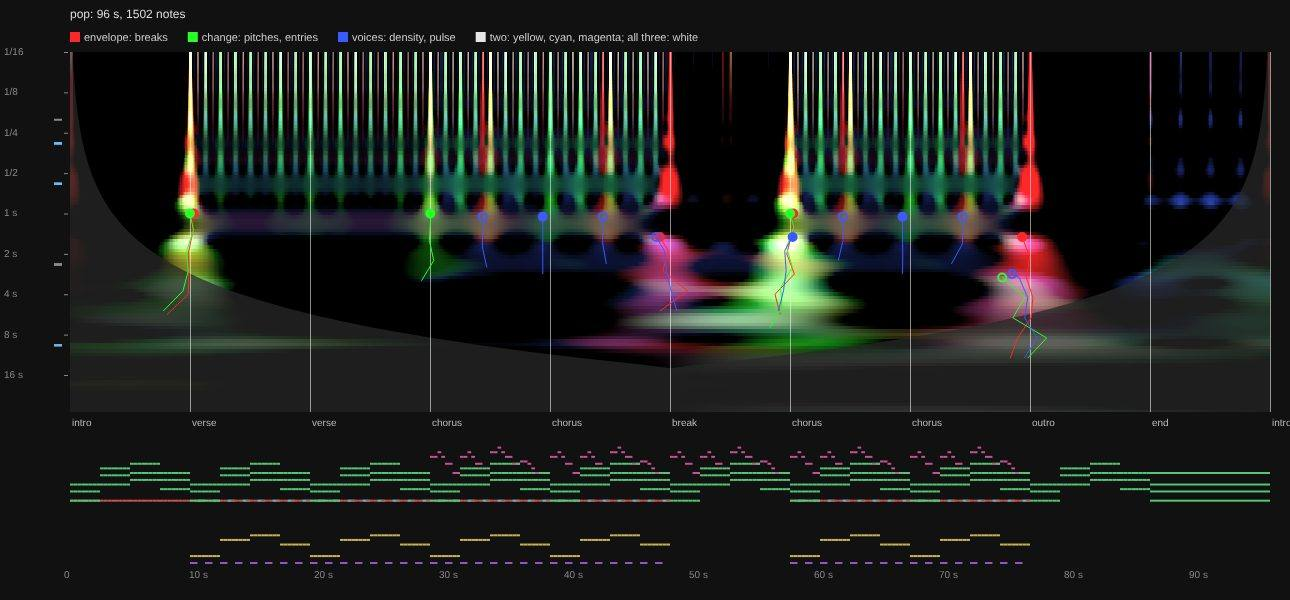
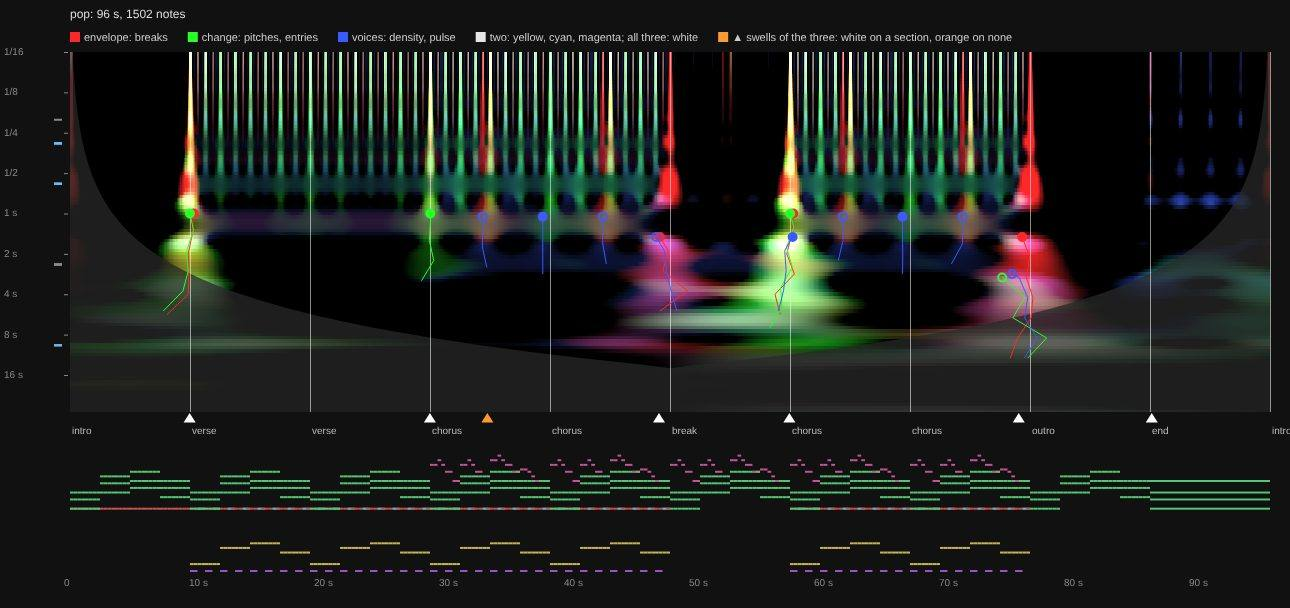
Scalogram probe: novelty and swells beside the cones; the boundaries nobody wrote (#286)
Two more finders, scored like the cones: Foote's novelty (a lasting
change of texture) and swells (the periods near the boundaries' gap
loud for a moment), each per signal and for the three together.
Swells find the most: about 60 % of the sections at 56-72 % precision
(chance 19 %), and 5 to 12's blocks (82 %). Of the best swells, 28 of
144 land on no section; a cell's turn doesn't explain them. The
combined chart marks the swells, white on a section, orange on none.

Claude-Session: https://claude.ai/code/session_01QxAyZBrxNwWurudBveYUYf

diff --git a/tools/probe/scalogram.test.ts b/tools/probe/scalogram.test.ts
@@ -17,7 +17,7 @@ import { KEY, SECONDS_PER_STEP } from '../../src/engine/fiveto12';
 import { eventsBetween, plan } from '../../src/engine/realize';
 import { PRESETS } from '../../src/engine/presets';
 import { towerSpans } from '../../src/layout/tower';
-import { MOST_RATE, PER_OCTAVE, SIGNALS, W0, around, cones, grid, reach, score, signals, type Cone } from './scalogram';
+import { MOST_RATE, PER_OCTAVE, SIGNALS, W0, around, cones, grid, novelty, reach, score, signals, swells, type Cone } from './scalogram';
 
 const log = (t: string) => appendFileSync(process.env.PROBE!, t + '\n');
 /** A piece shorter than this (s) is left out: a third of it is a bar or two. */
@@ -59,6 +59,14 @@ describe.runIf(process.env.PROBE)('the rhythm scalogram', () => {
     const short: string[] = [];
     // (the cones against the boundaries: a row a piece and a set of boundaries)
     const scored: { key: string; set: string; n: number; tolerance: number; chance: number; by: Record<string, { precision: number; recall: number }> }[] = [];
+    // (the same boundaries against the novelty and the swells: each signal alone, and the three of the combined chart)
+    const NOVEL = [...SIGNALS, 'three'] as const;
+    const novel: { key: string; set: string; by: Record<string, { precision: number; recall: number }> }[] = [];
+    const swelled: typeof novel = [];
+    // (the boundaries nobody wrote: strong swells of the three signals together that land on no section, and whether a
+    // cell's turn explains them, a phrase inside a section)
+    const unwritten: string[] = [];
+    const tallyUnwritten = { strong: 0, off: 0, turn: 0, chance: 0, pieces: 0 };
     for (const [key, p] of Object.entries(PRESETS)) {
       if (only && !only.includes(key)) continue;
       if (tag && !new RegExp(`tags="[^"]*\\b${tag}\\b`).test(p.source)) continue;
@@ -157,6 +165,41 @@ describe.runIf(process.env.PROBE)('the rhythm scalogram', () => {
               .map((c, i) => ({ at: +c.at.toFixed(2), path: c.path.map(([t, q]) => [+t.toFixed(2), +q.toPrecision(4)]), rank: i, hit: r.hits.has(c) }));
         }
         scored.push({ key, set, n: boundaries.length, tolerance, chance, by });
+        const nby: Record<string, { precision: number; recall: number }> = {};
+        const sby: Record<string, { precision: number; recall: number }> = {};
+        for (const s of NOVEL) {
+          const rows = s === 'three' ? [sig.envelope, sig.change, sig.voices] : [sig[s]];
+          nby[s] = score(novelty(rows, g.periods, window, gap), boundaries, window, tolerance);
+          sby[s] = score(swells(rows, g.periods, window, gap), boundaries, window, tolerance);
+        }
+        novel.push({ key, set, by: nby });
+        swelled.push({ key, set, by: sby });
+        if (set === 'sections') {
+          const peaks = swells([sig.envelope, sig.change, sig.voices], g.periods, window, gap);
+          // (the best twice as many as there are boundaries: room for as many again that nobody wrote)
+          const strong = peaks.slice(0, 2 * boundaries.length);
+          const off = strong.filter((x) => !boundaries.some((b) => Math.abs(b - x.at) <= tolerance));
+          // (for the combined chart: each of them, by rank, on a section or not)
+          out.swells = strong.map((x, rank) => ({ at: +x.at.toFixed(2), rank, hit: !off.includes(x) }));
+          // (a cell's turn from a quarter of the gap up to it, and over twice the tolerance: a phrase, not the bar, which
+          // would explain any moment; at a multiple of it, explained)
+          const turns = cells.filter((c) => c.turn > Math.max(2 * tolerance, gap / 4) && c.turn < gap).map((c) => ({ name: c.name, turn: c.turn }));
+          const why = (t: number) => turns.find((c) => Math.abs(t - Math.round(t / c.turn) * c.turn) <= tolerance)?.name;
+          let covered = 0;
+          for (let k = 0; k < 1000; k++) if (why(((k + 0.5) / 1000) * window)) covered++;
+          tallyUnwritten.strong += strong.length;
+          tallyUnwritten.off += off.length;
+          tallyUnwritten.turn += off.filter((x) => why(x.at)).length;
+          tallyUnwritten.chance += (covered / 1000) * off.length;
+          tallyUnwritten.pieces++;
+          if (off.length)
+            unwritten.push(
+              `${key.padEnd(14)} ${off.length}/${strong.length} of the best swells on no section (a cell's turn covers ${pct(covered / 1000)} % of the time): ${off
+                .sort((a, b) => a.at - b.at)
+                .map((x) => `${x.at < 120 ? x.at.toFixed(1) + ' s' : (x.at / 60).toFixed(1) + ' min'}${why(x.at) ? ` (&${why(x.at)})` : ''}`)
+                .join(', ')}`,
+            );
+        }
       }
       const spans = [...new Set(cells.flatMap((c) => [c.step, c.turn]).map((x) => (x < 1 ? x.toFixed(2) : x.toFixed(1))))].sort((a, b) => +a - +b);
       const how = time.ends !== null ? 'ends' : window === time.cycle ? 'cycle' : 'longest layer';
@@ -185,5 +228,25 @@ describe.runIf(process.env.PROBE)('the rhythm scalogram', () => {
         `${'mean'.padEnd(14)} ${''.padEnd(8)} ${''.padStart(3)} ${''.padStart(5)} ${pct(mean((x) => x.chance)).padStart(8)} | ${SIGNALS.map((s) => `${''.padEnd(5)}${pct(mean((x) => x.by[s].precision))} ${pct(mean((x) => x.by[s].recall))}`).join(' | ')}`,
       );
     }
+    for (const [title, rows] of [
+      ["the novelty (a change in which periods are loud, at the scale of the boundaries' median gap)", novel],
+      ['the swells (loud for a while at periods from an eighth to half the median gap)', swelled],
+    ] as const) {
+      log(`\nthe same boundaries against ${title}: as many best peaks as boundaries; P and R as above\n`);
+      log(`piece          set      | ${NOVEL.map((s) => `${s.padEnd(8)} P   R`).join(' | ')}`);
+      for (const x of rows) log(`${x.key.padEnd(14)} ${x.set.padEnd(8)} | ${NOVEL.map((s) => `${''.padEnd(5)}${pct(x.by[s].precision)} ${pct(x.by[s].recall)}`).join(' | ')}`);
+      const whole = rows.filter((x) => x.set === 'sections' || x.set === 'keys');
+      if (!whole.length) continue;
+      const mean = (f: (x: (typeof rows)[number]) => number) => whole.reduce((a, x) => a + f(x), 0) / whole.length;
+      log(`${'mean'.padEnd(14)} ${''.padEnd(8)} | ${NOVEL.map((s) => `${''.padEnd(5)}${pct(mean((x) => x.by[s].precision))} ${pct(mean((x) => x.by[s].recall))}`).join(' | ')}`);
+    }
+    log('\nthe boundaries nobody wrote: the best swells of the three signals together (twice as many as boundaries) that');
+    log('land on no section, each with the cell at a multiple of whose turn (a phrase: a quarter of the gap or more) it falls\n');
+    for (const l of unwritten) log(l);
+    const u = tallyUnwritten;
+    if (u.pieces)
+      log(
+        `\nover ${u.pieces} pieces: ${u.off} of ${u.strong} of the best swells land on no section; ${u.turn} of those on a multiple of a cell's turn (at random: ${u.chance.toFixed(1)})`,
+      );
   }, 900_000);
 });

diff --git a/tools/probe/scalogram.ts b/tools/probe/scalogram.ts
@@ -279,3 +279,81 @@ export function score(found: readonly Cone[], boundaries: readonly number[], win
     hits: new Set(best.filter((c) => near(c.at))),
   };
 }
+
+/**
+ * Where the music changes at the scale of `span` seconds (Foote 2000's novelty, on the scalogram): at each moment, the
+ * distance between the mean spectrum over `span`/2 before it and over `span`/2 after (each period in dB against its
+ * mean, the periods up to `span`/2, every signal given one after the other), and its peaks, best first, one within
+ * `span`/4 of another kept. Unlike a cone, it doesn't need the change to reach down to the beat: a key that changes
+ * under the same rhythm, a block of two hours whose mode changes, are a change in which periods are loud.
+ */
+export function novelty(signals: readonly (readonly Float32Array[])[], periods: readonly number[], window: number, span: number): Cone[] {
+  const cols = signals[0]?.[0]?.length ?? 0;
+  const half = Math.max(1, Math.round((span / 2 / window) * cols));
+  // (the features: every row up to span/2, in dB against its mean, summed along time for a mean over any stretch)
+  const sums: Float64Array[] = [];
+  for (const rows of signals) {
+    const r = byRow(rows, periods, window);
+    r.forEach((row, i) => {
+      if (periods[i] > span / 2) return;
+      const s = new Float64Array(cols + 1);
+      for (let c = 0; c < cols; c++) s[c + 1] = s[c] + 10 * Math.log10(Math.max(1e-6, row[c]));
+      sums.push(s);
+    });
+  }
+  const curve = new Float64Array(cols);
+  for (let c = half; c <= cols - half; c++) {
+    let acc = 0;
+    for (const s of sums) {
+      const before = (s[c] - s[c - half]) / half;
+      const after = (s[c + half] - s[c]) / half;
+      acc += (after - before) ** 2;
+    }
+    curve[c] = Math.sqrt(acc / Math.max(1, sums.length));
+  }
+  const near = Math.max(1, Math.round(half / 2));
+  const found: Cone[] = [];
+  for (let c = half; c <= cols - half; c++) {
+    let top = curve[c] > 0;
+    for (let k = Math.max(0, c - near); k <= Math.min(cols - 1, c + near) && top; k++) if (curve[k] > curve[c] || (curve[k] === curve[c] && k < c)) top = false;
+    if (top) {
+      const at = ((c + 0.5) / cols) * window;
+      found.push({ at, top: span, bottom: span, score: curve[c], path: [[at, span]] });
+    }
+  }
+  return found.sort((a, b) => b.score - a.score);
+}
+
+/**
+ * Swells at the scale of `span` seconds: each signal in dB against its period's mean, averaged over the periods from
+ * `span`/8 to `span`/2 (every signal given counted alike), and the peaks of that curve in time, best first, one within
+ * `span`/4 of another kept. A boundary that doesn't reach down to the beat (a cone cut short) still swells there: 5 to
+ * 12's keys, folded over ten minutes, are loudest at the change in the 2-minute row.
+ */
+export function swells(signals: readonly (readonly Float32Array[])[], periods: readonly number[], window: number, span: number): Cone[] {
+  const cols = signals[0]?.[0]?.length ?? 0;
+  const curve = new Float64Array(cols);
+  let n = 0;
+  for (const rows of signals) {
+    const r = byRow(rows, periods, window);
+    r.forEach((row, i) => {
+      if (periods[i] < span / 8 || periods[i] > span / 2) return;
+      n++;
+      for (let c = 0; c < cols; c++) curve[c] += 10 * Math.log10(Math.max(1e-6, row[c]));
+    });
+  }
+  if (!n) return [];
+  const near = Math.max(1, Math.round((span / 4 / window) * cols));
+  const found: Cone[] = [];
+  for (let c = 0; c < cols; c++) {
+    // (clear of the window's edges at the slowest of those periods)
+    if (c < cols * reach(span / 2, window) || c > cols * (1 - reach(span / 2, window))) continue;
+    let top = true;
+    for (let k = Math.max(0, c - near); k <= Math.min(cols - 1, c + near) && top; k++) if (curve[k] > curve[c] || (curve[k] === curve[c] && k < c)) top = false;
+    if (top) {
+      const at = ((c + 0.5) / cols) * window;
+      found.push({ at, top: span, bottom: span / 8, score: curve[c] / n, path: [[at, span]] });
+    }
+  }
+  return found.sort((a, b) => b.score - a.score);
+}

diff --git a/docs/notes/scalogram.md b/docs/notes/scalogram.md
@@ -121,7 +121,7 @@ The question: is a written boundary heard as a cone, and is a cone a written bou
   - **Chance**: the share of the window that close to a boundary, which is what P would be with cones dropped at random.
 - The thresholds were swept on the arrangements (`CONE_LOUD`, `CONE_OCTAVES`). Strict (1.5 × the mean, 2 octaves) gives P 56–73 % and R 12–20 %; loose (1 ×, 1 octave, kept) gives P 50–67 % and R 34–51 %.
 
-**Measured** (the 10 pieces with sections, 16 s or more; %):
+**Measured** (the 11 pieces with sections, 16 s or more; %):
 
 | piece | boundaries | n | chance | impulses P / R | envelope P / R | voices P / R | change P / R |
 | --- | --- | --- | --- | --- | --- | --- | --- |
@@ -156,14 +156,46 @@ The question: is a written boundary heard as a cone, and is a cone a written bou
 3. **Each signal hears a kind of boundary.** **envelope** hears the breaks, where notes stop (Hypercell and Pop, every cone on a section). **change** hears the drops and entries, and it is the only one that hears 5 to 12's keys (54 % against 18 %).
 4. **The day's blocks are heard, but not as cones.** At the 2-hour blocks the scalogram has patches at periods of about 17 minutes rather than cones down to the bar. The finder gets 3 or 4 of the 11, all on a block. Folded over two hours (point 3 above), the blocks show as a whole.
 
+## Three finders: cones, novelty, swells
+
+A cone has to reach down to the beat. Two other measures don't (in `tools/probe/scalogram.ts`, scored the same way):
+- **novelty** [Foote 2000]: at each moment, how different the spectrum is just after from just before, over half the boundaries' median gap either side. It finds lasting changes of texture.
+- **swells**: the scalogram averaged over the periods from an eighth to half the gap, and its peaks in time. It finds a moment when those periods are loud: a cone cut short, a break, a fill.
+
+Each is run on one signal, or on the three of the chart together (**three**). Means over the 11 pieces with sections, their sections and 5 to 12's keys (P / R, %; chance 19):
+
+| finder | impulses | envelope | voices | change | three |
+| --- | --- | --- | --- | --- | --- |
+| cones | 64 / 39 | 72 / 37 | 63 / 41 | 75 / 39 | |
+| novelty | 43 / 42 | 33 / 32 | 42 / 39 | 40 / 38 | 37 / 35 |
+| **swells** | 67 / 61 | 56 / 50 | 70 / 64 | 64 / 60 | **72 / 62** |
+
+- **Swells find the most**, about 60 % of the sections at 56–72 % precision, the three together the most precise. The written form is mostly heard as a swell at its own scale, not as a lasting change (novelty).
+- **5 to 12's blocks are found by swells**: 82 % in impulses and voices, against 27 % by cones. Its keys stay hard: 25 % at best (change), against 18 % by chance.
+- **Repeats stay silent**: Pop's and Hypercell's are found by no finder in any signal.
+
+The combined chart marks the swells of the three under the panel: a triangle at each of the best twice as many as there are sections, larger for the best as many, white on a section, orange on none.
+
+![Korobeiniki, combined](scalogram-korobeiniki-combined.jpg)
+![5 to 12, combined](scalogram-fiveto12-combined.jpg)
+
+## The boundaries nobody wrote
+
+Of the best swells of the three together (twice as many as boundaries), those that land on no section, over the 11 pieces:
+- **28 of 144** land on no section; the written sections account for the rest.
+- **A cell's turn doesn't explain them.** 7 fall on a multiple of a cell's turn of phrase length (a quarter of the gap or more), where chance would give 11. The bar's turn would explain any moment, so it isn't counted.
+- **Korobeiniki**: 5 unwritten swells, each in the middle of an A section, with a red patch (a break) there. That looks like the halves of the tune's 8 bars, a phrase written inside the tune's notes rather than as a cell (not checked against the notes).
+- **Baustelle**: 6, several at multiples of `&edge` (a cell's turn); `chance` plays in it.
+- **5 to 12 and daytime**: 7 each inside their blocks, not on a key; unexplained.
+
 ## What is next (nothing decided)
 
-- **A better finder for slow boundaries**: the day's blocks and keys are periodic patches, better found by folding or by a change measure per period than by chaining maxima down.
-- **Boundaries nobody wrote**: the cones that land on no section (the red ones). Are they the phrases inside a section, `chance`, or something the form does that `sections` doesn't say?
+- **Korobeiniki's halves, checked**: the tune's notes at the unwritten swells. If it is a phrase, a written cell for it would make the boundary written.
+- **The keys of 5 to 12**: heard on average (folded), seldom one by one. A key change under the same rhythm may be too small a change of the notes' timing for any onset signal: a pitch-class signal (a key's notes against the last key's) would ask the question directly.
 - **Ridges in time**, not peaks in the mean: a level that holds for part of the piece (Pop's drums, BWV 847's prelude against its fugue).
 - **Loops longer than one cycle**, where the loop itself is the question (Phase): two or three cycles.
 - **What an onset is worth** stays open. The pictures suggest not choosing one: impulses or voices for the meter, change for melody, keys and phasing, the cones of any of them for the form.
 
 ## References
 
-Todd, N. P. McA. (1994), *The auditory "primal sketch": a multiscale model of rhythmic grouping*, J. New Music Research 23. Smith, L. M. & Honing, H. (2008), *Time-frequency representation of musical rhythm by continuous wavelets*, J. Mathematics and Music 2(2). Torrence, C. & Compo, G. P. (1998), *A practical guide to wavelet analysis*, BAMS 79 (the Morlet, the cone of influence). Liu, Liang & Weisberg (2007), *Rectification of the bias in the wavelet power spectrum*, J. Atmos. Oceanic Tech. 24. Mallat, S. & Hwang, W. L. (1992), *Singularity detection and processing with wavelets*, IEEE Trans. Inf. Theory 38 (cones of maxima).
+Todd, N. P. McA. (1994), *The auditory "primal sketch": a multiscale model of rhythmic grouping*, J. New Music Research 23. Smith, L. M. & Honing, H. (2008), *Time-frequency representation of musical rhythm by continuous wavelets*, J. Mathematics and Music 2(2). Torrence, C. & Compo, G. P. (1998), *A practical guide to wavelet analysis*, BAMS 79 (the Morlet, the cone of influence). Liu, Liang & Weisberg (2007), *Rectification of the bias in the wavelet power spectrum*, J. Atmos. Oceanic Tech. 24. Mallat, S. & Hwang, W. L. (1992), *Singularity detection and processing with wavelets*, IEEE Trans. Inf. Theory 38 (cones of maxima). Foote, J. (2000), *Automatic audio segmentation using a measure of audio novelty*, IEEE ICME.
